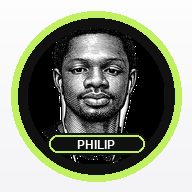
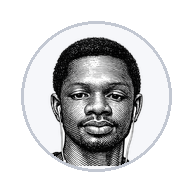
deploy: 54f4d7a4760aa2117059f6e6c4ad56d2557ee4a1

diff --git a/index.html b/index.html
@@ -10,11 +10,12 @@
     <meta name="theme-color" content="#fdfdfd">
     <meta name="mobile-web-app-capable" content="yes">
     <meta name="apple-mobile-web-app-capable" content="yes">
-    <meta name="apple-mobile-web-app-status-bar-style" content="black-translucent">
+    <meta name="apple-mobile-web-app-status-bar-style" content="default">
     <meta name="apple-mobile-web-app-title" content="PHILIP">
     <link rel="manifest" href="manifest.json">
     <link rel="icon" type="image/png" href="favicon.png">
-    <link rel="apple-touch-icon" href="icons/icon-192.png">
+    <link rel="apple-touch-icon" href="apple-touch-icon.png">
+    <link rel="apple-touch-icon" sizes="180x180" href="apple-touch-icon.png">
     <link rel="apple-touch-icon" sizes="192x192" href="icons/icon-192.png">
     <link rel="apple-touch-icon" sizes="512x512" href="icons/icon-512.png">
     <link rel="preconnect" href="https://fonts.googleapis.com">
@@ -830,6 +831,11 @@
            ======================================== */
         @media (max-width: 1024px) {
 
+            .nav-logo {
+                font-size: 1.75rem;
+                letter-spacing: -1.5px;
+            }
+
             .navbar,
             .hero,
             section {
@@ -838,12 +844,14 @@
             }
 
             .navbar {
-                padding-top: 1.25rem;
+                padding-top: max(1.25rem, env(safe-area-inset-top));
                 padding-bottom: 1.25rem;
+                padding-left: max(1.5rem, env(safe-area-inset-left));
+                padding-right: max(1.5rem, env(safe-area-inset-right));
             }
 
             .navbar.scrolled {
-                padding-top: 1rem;
+                padding-top: max(1rem, env(safe-area-inset-top));
                 padding-bottom: 1rem;
             }
 
@@ -922,11 +930,21 @@
                 font-size: 0.9rem;
             }
 
+            .nav-logo {
+                font-size: 1.5rem;
+                letter-spacing: -1px;
+            }
+
             .navbar,
             .hero,
             section {
-                padding-left: 1rem;
-                padding-right: 1rem;
+                padding-left: max(1.1rem, env(safe-area-inset-left));
+                padding-right: max(1.1rem, env(safe-area-inset-right));
+            }
+
+            .navbar {
+                padding-top: max(1rem, env(safe-area-inset-top));
+                padding-bottom: 1rem;
             }
 
             section {
@@ -934,41 +952,68 @@
                 padding-bottom: 4rem;
             }
 
+            .section-title {
+                font-size: clamp(1.65rem, 7vw, 2.3rem);
+                letter-spacing: -1.5px;
+                margin-bottom: 2rem;
+            }
+
             .hero {
-                padding-top: 5.5rem;
+                padding-top: max(6rem, calc(4.5rem + env(safe-area-inset-top)));
+                padding-bottom: 3.5rem;
                 min-height: auto;
             }
 
             .hero h1 {
+                font-size: clamp(1.65rem, 7.5vw, 2.3rem);
                 letter-spacing: -1.5px;
+                line-height: 1.05;
+                margin-bottom: 1.25rem;
+            }
+
+            .hero-description {
+                font-size: 0.88rem;
+                line-height: 1.65;
+                margin-bottom: 2rem;
             }
 
             .hero-actions {
                 flex-direction: column;
+                gap: 0.85rem;
                 width: 100%;
             }
 
             .btn-primary,
             .btn-secondary {
                 width: 100%;
+                min-height: 48px;
                 justify-content: center;
+                padding: 0.95rem 1.5rem;
             }
 
             .services-grid {
                 grid-template-columns: 1fr;
+                gap: 1.25rem;
             }
 
             .service-card {
-                padding: 2rem 1.5rem;
+                padding: 1.75rem 1.25rem;
+                border-radius: 1.5rem;
             }
 
             .skills-container {
                 grid-template-columns: 1fr;
-                gap: 1.75rem;
+                gap: 1.5rem;
             }
 
             .skill-category-card {
-                padding: 2rem 1.5rem;
+                padding: 1.75rem 1.25rem;
+                border-radius: 1.5rem;
+            }
+
+            .skill-category-title {
+                font-size: 1rem;
+                margin-bottom: 1.25rem;
             }
 
             .skills-list {
@@ -976,22 +1021,59 @@
                 gap: 0.75rem;
             }
 
+            .skill-item {
+                padding: 1rem 0.65rem;
+                border-radius: 1rem;
+            }
+
+            .skill-item-name {
+                font-size: 0.82rem;
+                word-break: break-word;
+            }
+
+            .skill-item-detail {
+                font-size: 0.64rem;
+                word-break: break-word;
+            }
+
+            .projects-grid {
+                grid-template-columns: 1fr;
+                gap: 1.5rem;
+            }
+
+            .project-card {
+                border-radius: 1.5rem;
+            }
+
             .project-info {
-                padding: 1.75rem 1.25rem;
+                padding: 1.5rem 1.25rem;
             }
 
             .project-info h3 {
-                font-size: 1.35rem;
+                font-size: 1.25rem;
+                margin-bottom: 0.5rem;
+            }
+
+            .project-description {
+                font-size: 0.85rem;
+                margin-bottom: 1.25rem;
+                line-height: 1.6;
             }
 
             .project-preview--phone {
-                min-height: clamp(520px, 115vw, 680px);
-                padding: 1.5rem 0.75rem;
+                min-height: clamp(420px, 95vw, 560px);
+                padding: 1.25rem 0.5rem;
             }
 
             .fixit-phone {
-                width: min(calc(100vw - 2rem), 340px);
+                width: min(calc(100vw - 3rem), 280px);
                 max-width: 100%;
+                border-radius: 28px;
+                padding: 10px;
+            }
+
+            .fixit-phone-screen {
+                border-radius: 20px;
             }
 
             .watermark {
@@ -1002,21 +1084,95 @@
                 flex-direction: column;
                 align-items: stretch;
                 width: 100%;
+                gap: 0.75rem;
             }
 
             .project-link,
             .project-link-secondary {
                 justify-content: center;
-                padding: 0.75rem 0;
+                padding: 0.85rem 1rem;
+                min-height: 44px;
+                border-radius: 10px;
+                width: 100%;
+            }
+
+            .project-link-secondary {
+                border: 1px solid var(--border-card);
+                background: var(--bg-secondary);
             }
 
             .contact-form input,
             .contact-form textarea {
                 padding: 1rem;
+                font-size: 16px !important;
+                -webkit-appearance: none;
+                border-radius: 12px;
+            }
+
+            .mobile-nav {
+                padding-top: max(5.5rem, calc(4.5rem + env(safe-area-inset-top)));
+                padding-bottom: max(2rem, env(safe-area-inset-bottom));
+                padding-left: max(2rem, env(safe-area-inset-left));
+                padding-right: max(2rem, env(safe-area-inset-right));
             }
 
             footer {
-                padding: 2rem 1rem !important;
+                padding: 2.5rem 1.25rem !important;
+            }
+        }
+
+        @media (max-width: 380px) {
+            .nav-logo {
+                font-size: 1.35rem;
+                letter-spacing: -0.5px;
+            }
+
+            .navbar,
+            .hero,
+            section {
+                padding-left: 0.85rem;
+                padding-right: 0.85rem;
+            }
+
+            .hero h1 {
+                font-size: 1.5rem;
+                letter-spacing: -1px;
+            }
+
+            .skill-category-card {
+                padding: 1.25rem 0.75rem;
+            }
+
+            .skills-list {
+                grid-template-columns: repeat(2, 1fr);
+                gap: 0.5rem;
+            }
+
+            .skill-item {
+                padding: 0.85rem 0.4rem;
+                border-radius: 0.85rem;
+            }
+
+            .skill-item-icon {
+                width: 26px;
+                height: 26px;
+            }
+
+            .skill-item-icon svg {
+                width: 20px;
+                height: 20px;
+            }
+
+            .skill-item-name {
+                font-size: 0.74rem;
+            }
+
+            .skill-item-detail {
+                font-size: 0.58rem;
+            }
+
+            .project-info {
+                padding: 1.25rem 0.85rem;
             }
         }
 
